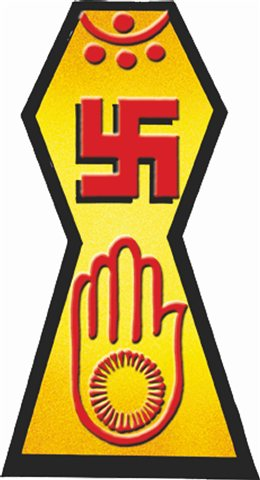
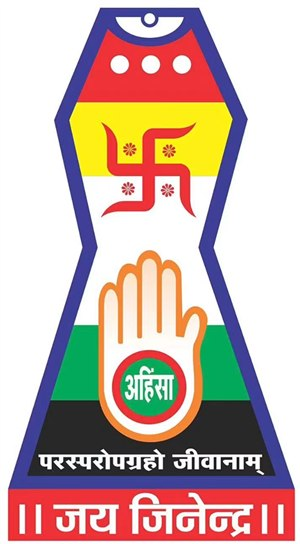
feat: use requested Jain symbol artwork, center-align temple name
Logo replaced with the tricolor/ahimsa-hand version cropped from the
image the user provided (was the plain red/gold swastika+hand before).
Temple name centered instead of left-aligned.

diff --git a/js/card.js b/js/card.js
@@ -42,7 +42,7 @@ async function showMembershipCard(familyNo) {
   .vcard{width:3.5in;height:2in;background:#fff;border:1px solid #ddd;border-radius:10px;box-shadow:0 4px 14px rgba(0,0,0,.15);position:relative;overflow:hidden}
   .vc-front{display:flex;flex-direction:column;height:100%}
   .vc-temple-band{padding:6px 10px 3px;flex-shrink:0}
-  .vc-temple{font-size:13.5px;font-weight:800;color:#c00;line-height:1.28}
+  .vc-temple{font-size:13.5px;font-weight:800;color:#c00;line-height:1.28;text-align:center}
   .vc-front-row{display:flex;flex:1;min-height:0}
   .vc-logo-wrap{width:30%;flex-shrink:0;background-color:#fff8ec;background-image:url('${logoUrl}');background-repeat:no-repeat;background-position:center center;background-size:contain}
   .vc-front-mid{flex:1;min-width:0;padding:2px 8px;display:flex;flex-direction:column;justify-content:center}

diff --git a/sw.js b/sw.js
@@ -2,7 +2,7 @@
 // DERASAR BOLI - Service Worker
 // ==========================================
 
-const CACHE_NAME = 'derasar-boli-v39';
+const CACHE_NAME = 'derasar-boli-v40';
 const ASSETS = [
   '/',
   '/index.html',
